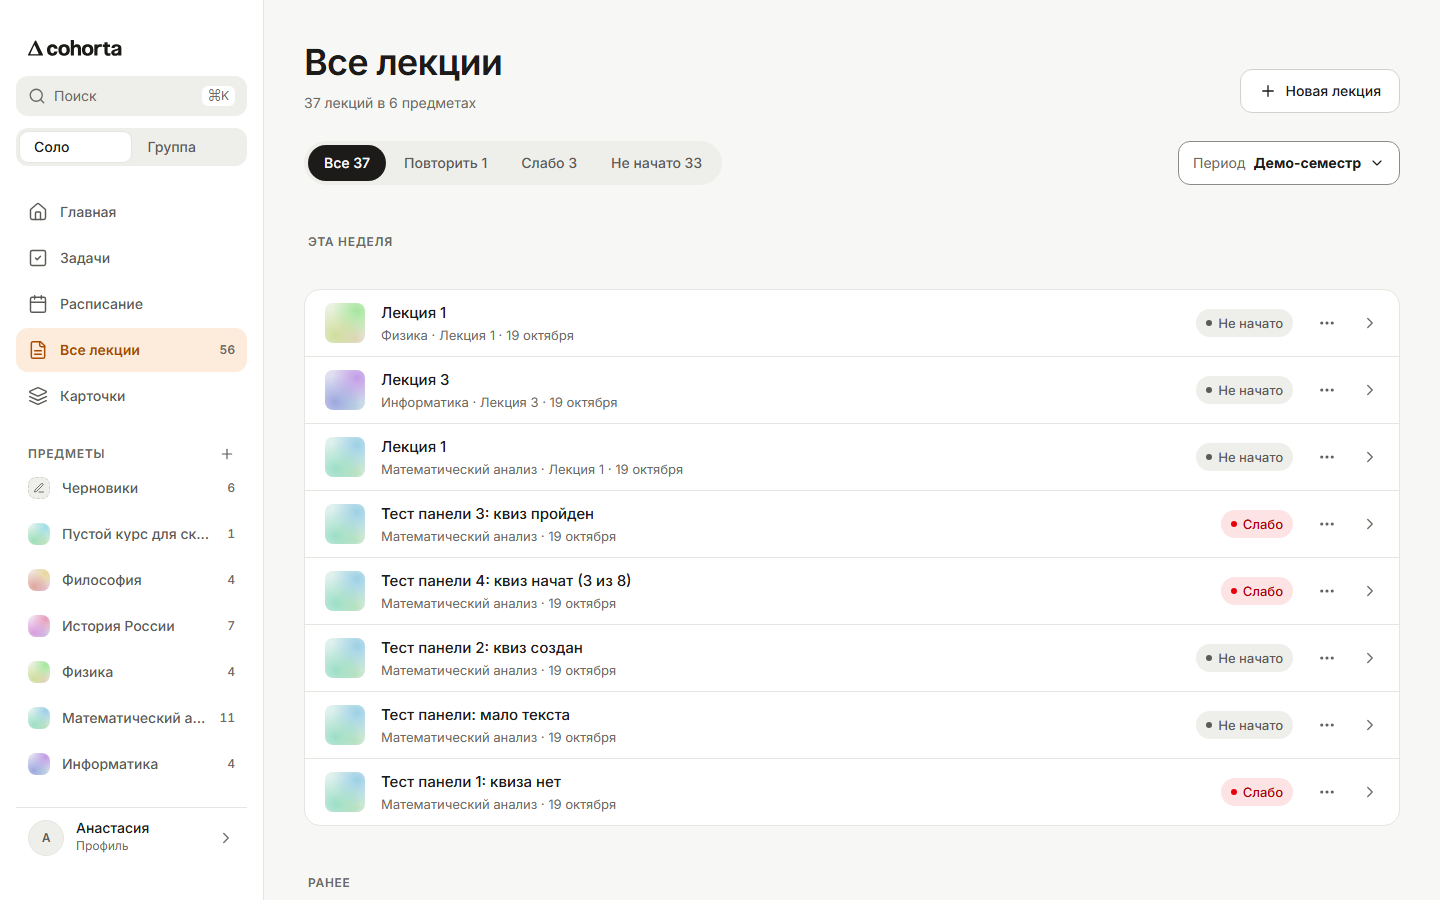
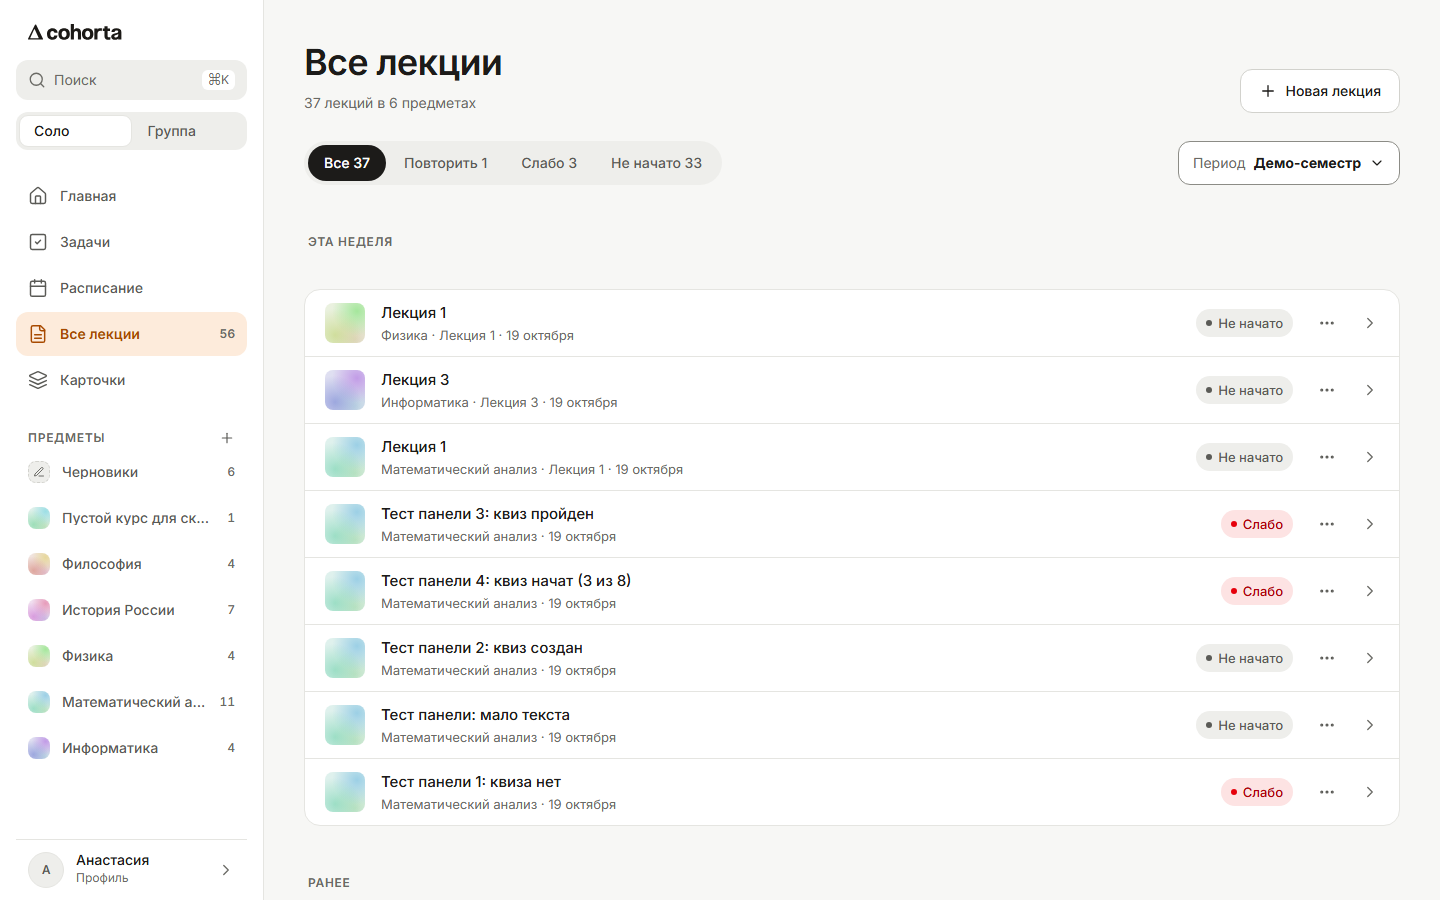
style(design): сайдбар на компьютере — padding-top 16 px, padding-bottom 0

diff --git a/apps/web/src/styles/components.css b/apps/web/src/styles/components.css
@@ -1624,6 +1624,10 @@ button.c-row.on:hover { background: var(--accent-soft); }
   z-index: 60;
 }
 /* Логотип в сайдбаре: 16 px, одноцветный тёмный, левый край по линии значков меню (20.10; исключение из минимума 24 px). */
+/* Компьютер: сверху 16 px, снизу вплотную (профиль прижат к низу). */
+@media (min-width: 1024px) {
+  .c-shell-sidebar { padding-top: var(--space-4); padding-bottom: 0; }
+}
 .c-shell-logo { display: block; align-self: flex-start; height: 16px; width: auto; margin: var(--space-2) 0 var(--space-2) var(--space-3); }
 .c-shell-side-search {
   display: flex;
